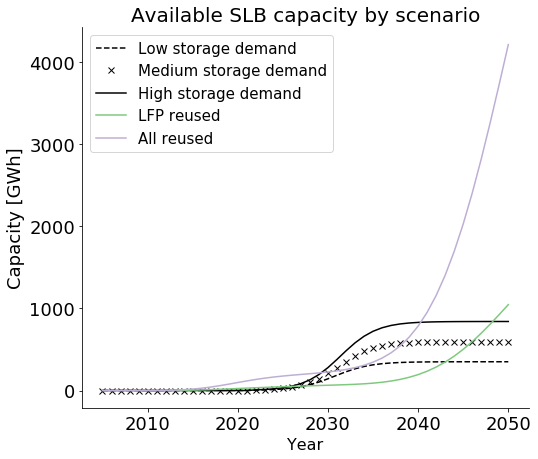
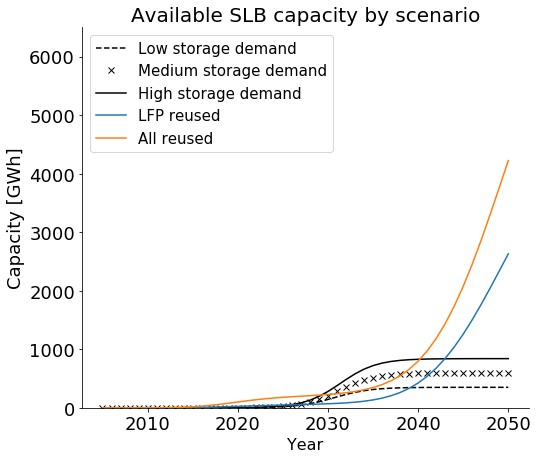
Fixed material content NSB

diff --git a/Model.py b/Model.py
@@ -706,7 +706,7 @@ def plot_V2G_scenarios():
     import seaborn as sns
     custom_cycler = cycler(color=sns.color_palette('tab10', 6)) #'Set2', 'Paired', 'YlGnBu'
     z = 1 # Low, medium, high
-    s = 0 # Low, medium, high
+    s = 1 # Low, medium, high
     a = 0 # NCX, LFP, Next_Gen, Roskill
     R = 1 # LFP reused, no reuse, all reuse
     v = 4 # Low, medium, high, v2g mandate, no v2g
@@ -731,7 +731,7 @@ def plot_V2G_scenarios():
     ax.set_title('Available V2G capacity by scenario'.format(S), fontsize=20)
     ax.set_xlabel('Year',fontsize =16)
     ax.tick_params(axis='both', which='major', labelsize=18)
-    plt.ylim(0,5500)
+    plt.ylim(0,6500)
 
 # %% 
 def plot_SLB_scenarios():
@@ -739,7 +739,7 @@ def plot_SLB_scenarios():
     import seaborn as sns
     custom_cycler = cycler(color=sns.color_palette('tab10', 6)) #'Set2', 'Paired', 'YlGnBu'
     z = 1 # Low, medium, high
-    s = 1 # Low, medium, high
+    s = 0 # Low, medium, high
     a = 1 # NCX, LFP, Next_Gen, Roskill, BNEF, Faraday
     R = 1 # LFP reused, no reuse, all reuse
     v = 4 # Low, medium, high, v2g mandate, no v2g
@@ -762,13 +762,13 @@ def plot_SLB_scenarios():
     ax.set_title('Available SLB capacity by scenario'.format(S), fontsize=20)
     ax.set_xlabel('Year',fontsize =16)
     ax.tick_params(axis='both', which='major', labelsize=18)
-    #plt.ylim(0,800)
+    plt.ylim(0,6500)
 # %% 
 def plot_only_NSB():
     from cycler import cycler
     import seaborn as sns
     custom_cycler = cycler(color=sns.color_palette('Accent', 6)) #'Set2', 'Paired', 'YlGnBu'
-    z = 1 # Low, medium, high
+    z = 0 # Low, medium, high
     s = 1 # Low, medium, high
     a = 0 # NCX, LFP, Next_Gen, Roskill
     R = 1 # LFP reused, no reuse, all reuse
@@ -865,7 +865,7 @@ def plot_energy_resource_graphs():
     #ax.set_ylim([0,5])
     ax.tick_params(axis='both', which='major', labelsize=18)
     plt.ylim(0,800)
-    material_cycler = cycler(color=['r','g','b','yellow','m','dimgrey', 'indianred', 'yellowgreen', 'cornflowerblue', 'palegoldenrod', 'plum', 'lightgrey']) #'Set2', 'Paired', 'YlGnBu'
+    material_cycler = cycler(color=['r','g','b','yellow','m','k', 'indianred', 'yellowgreen', 'cornflowerblue', 'palegoldenrod', 'plum', 'lightgrey']) #'Set2', 'Paired', 'YlGnBu'
 
     # Resource figure for this scenario
     h = 1 # Direct recycling, hydrometallurgical, pyrometallurgical
